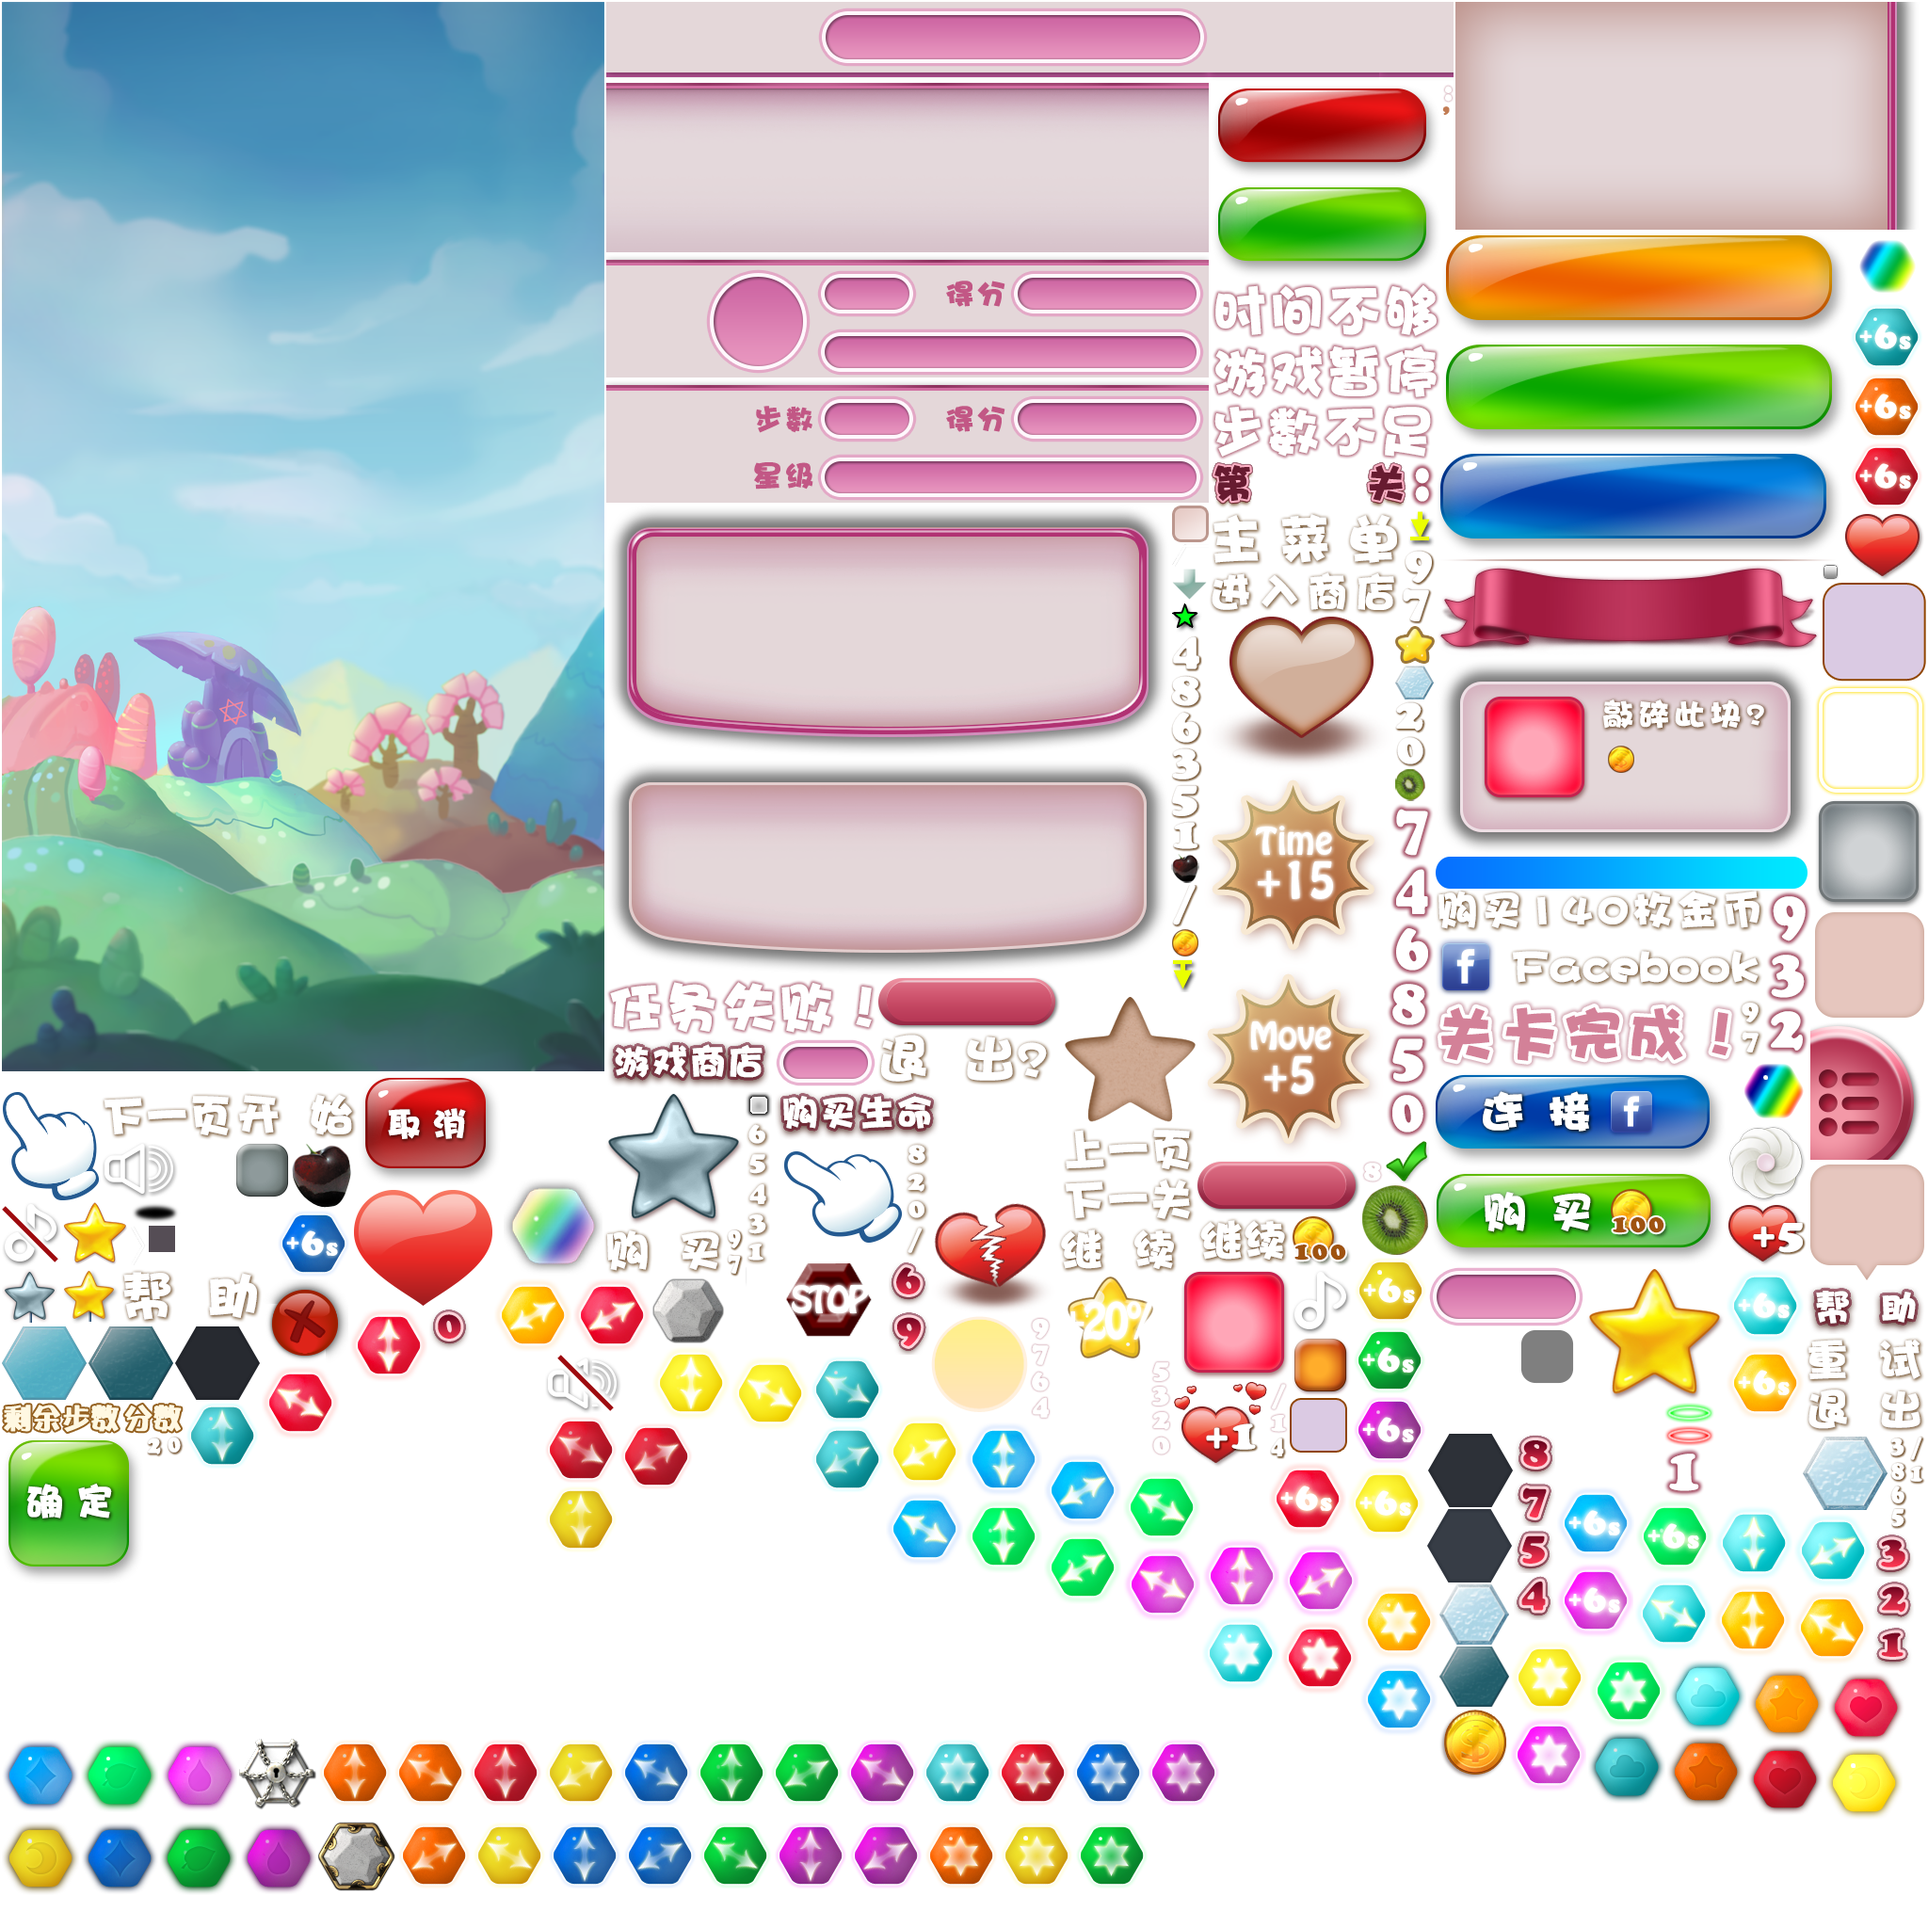
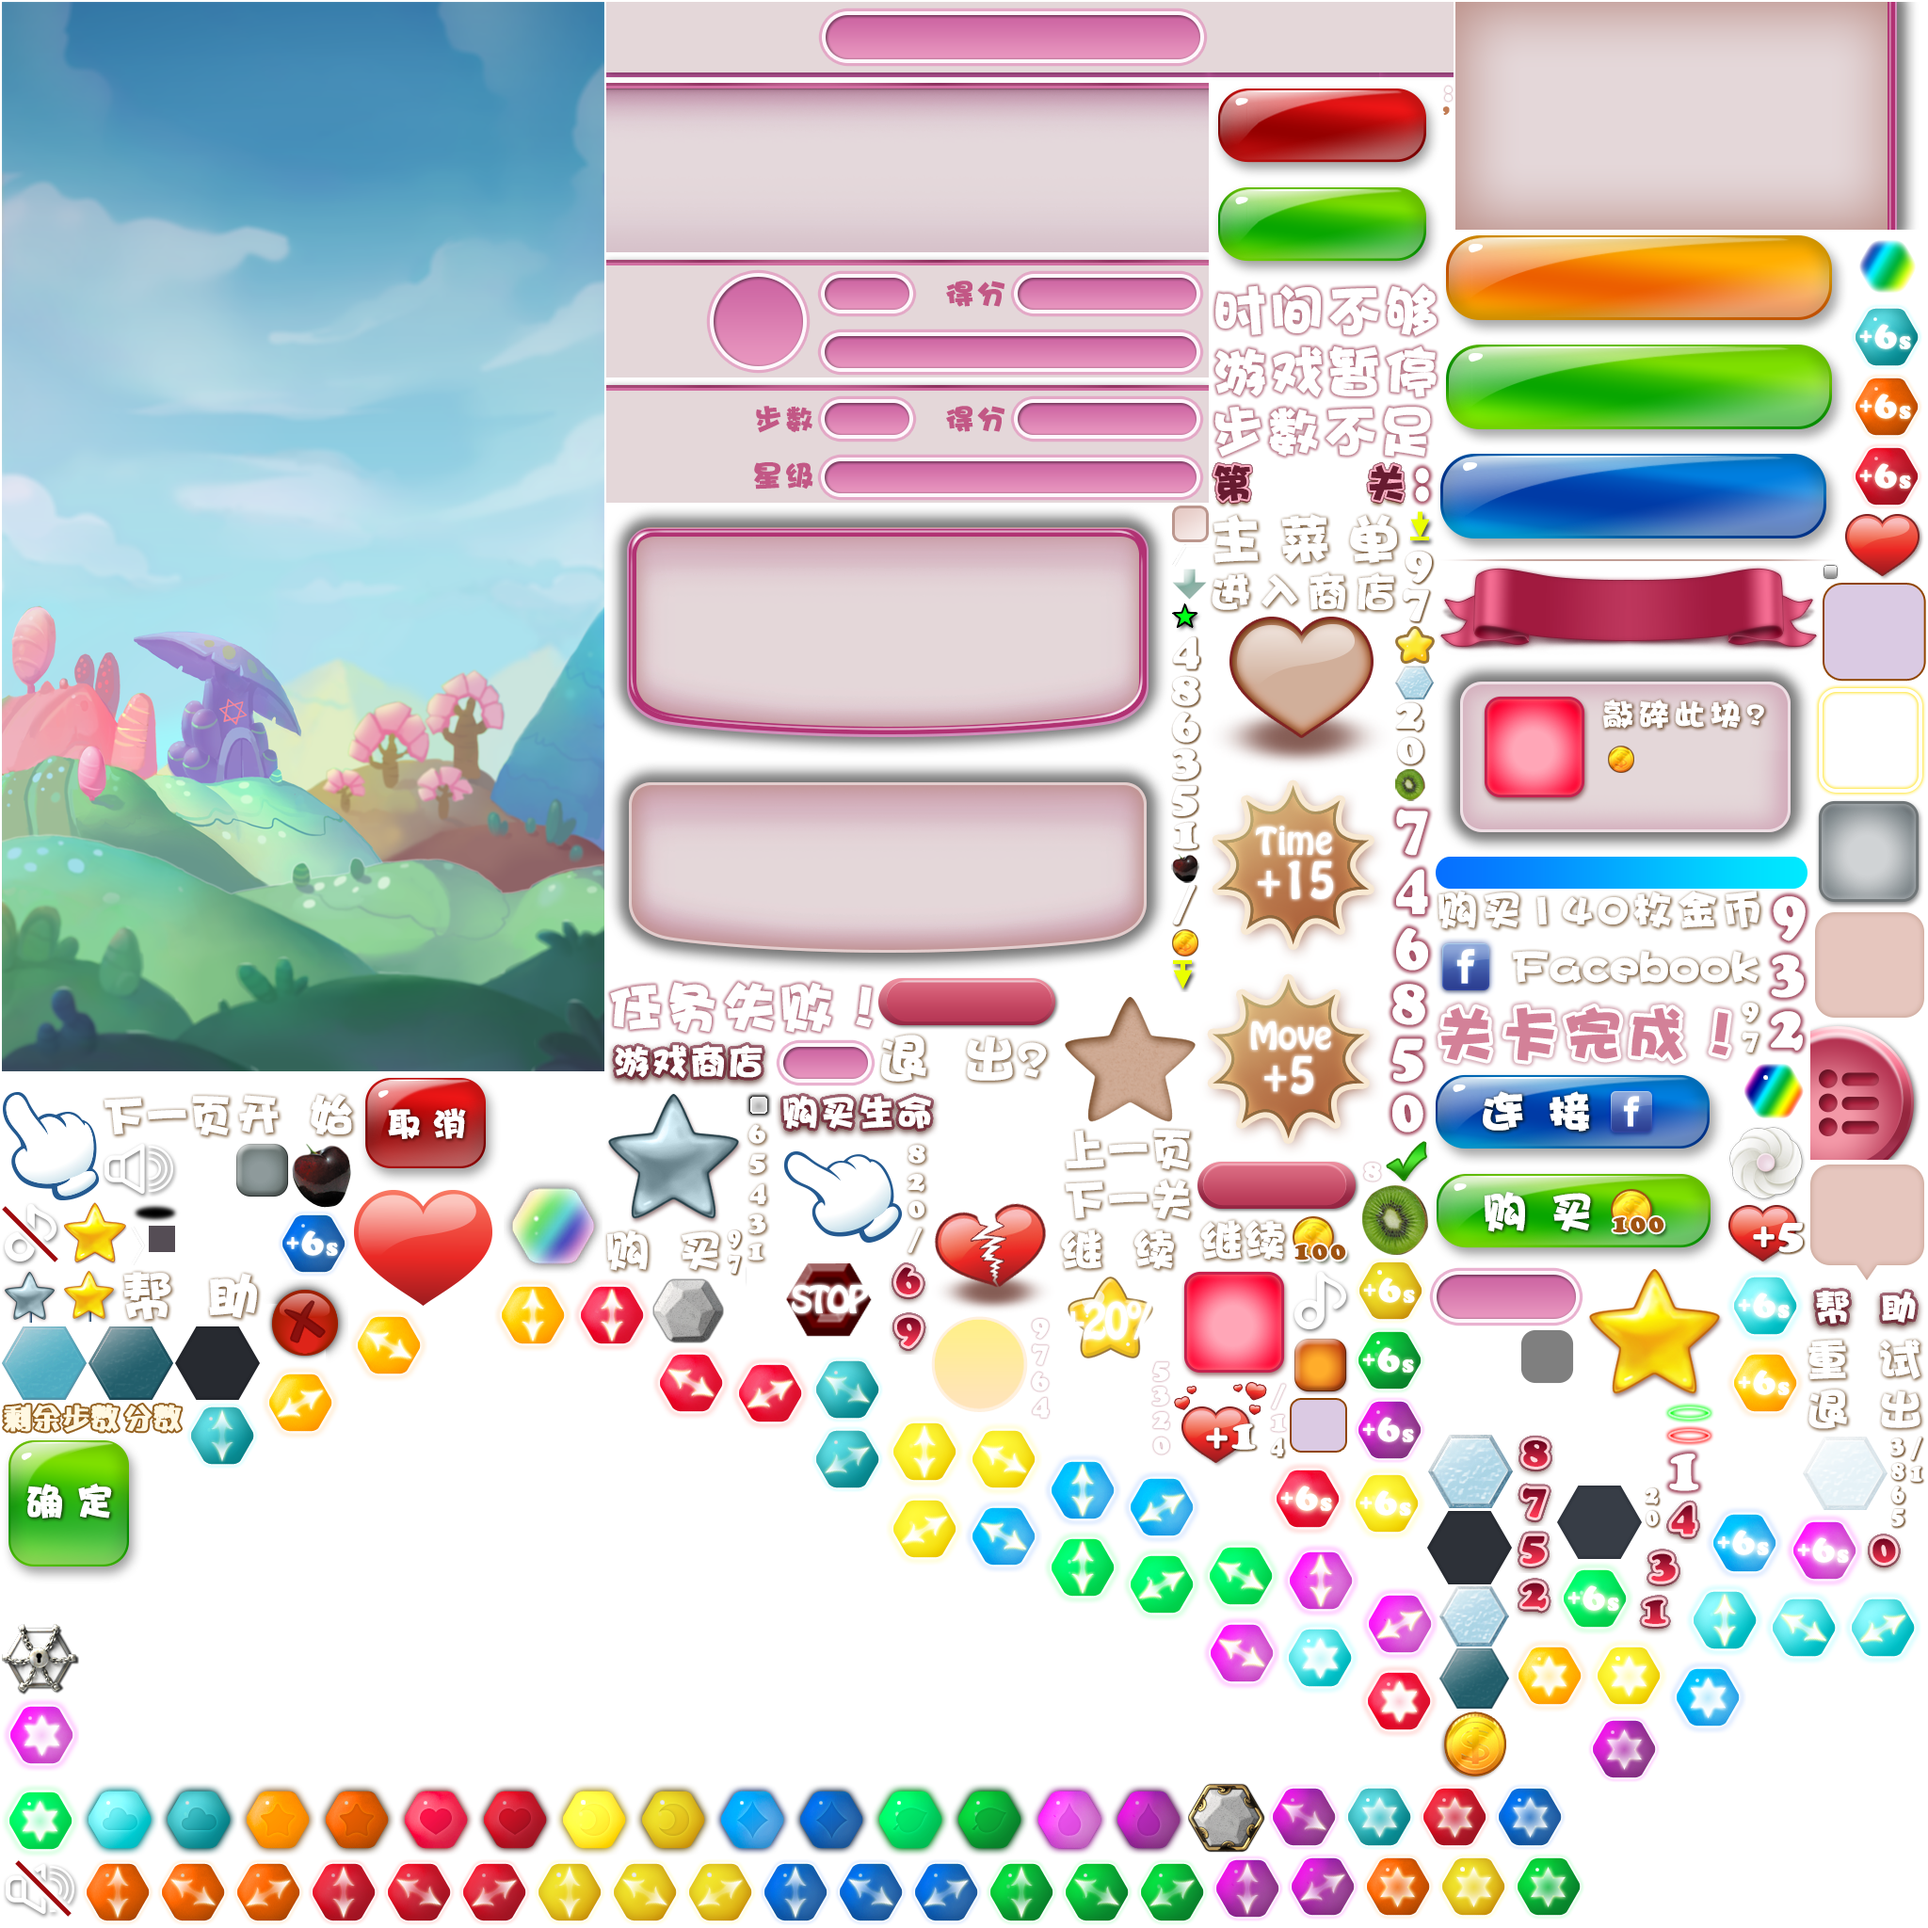
双层冰块闪烁 买心界面数字0占位

diff --git a/ClientProject/Assets/CSharpScripts/GameLogic.cs b/ClientProject/Assets/CSharpScripts/GameLogic.cs
@@ -1058,7 +1058,7 @@ public class GameLogic
                 m_gridBackImage[x, y].layer4 = newObj.GetComponent<UISprite>();
                 m_gridBackImage[x, y].layer4.transform.parent = m_gridInstance.transform.parent;
                 m_gridBackImage[x, y].layer4.transform.localScale = m_gridInstance.transform.localScale;
-                m_gridBackImage[x, y].layer4.spriteName = "JellySpark";
+                m_gridBackImage[x, y].layer4.spriteName = "JellyDoubleSpark";
                 m_gridBackImage[x, y].layer4.gameObject.SetActive(false);
                 m_gridBackImage[x, y].layer4.gameObject.name = "JellyTip";
             }
@@ -3250,6 +3250,7 @@ public class GameLogic
                 //m_gridBackImage[processGrid.x, processGrid.y].layer0.spriteName = "Jelly" + ((processGrid.y + (processGrid.x % 2)) % 3);
                 m_gridBackImage[processGrid.x, processGrid.y].layer0.spriteName = "Jelly";
 
+                m_gridBackImage[processGrid.x, processGrid.y].layer4.spriteName = "JellySpark";
                 
                 jellyChanged = true;
             }
